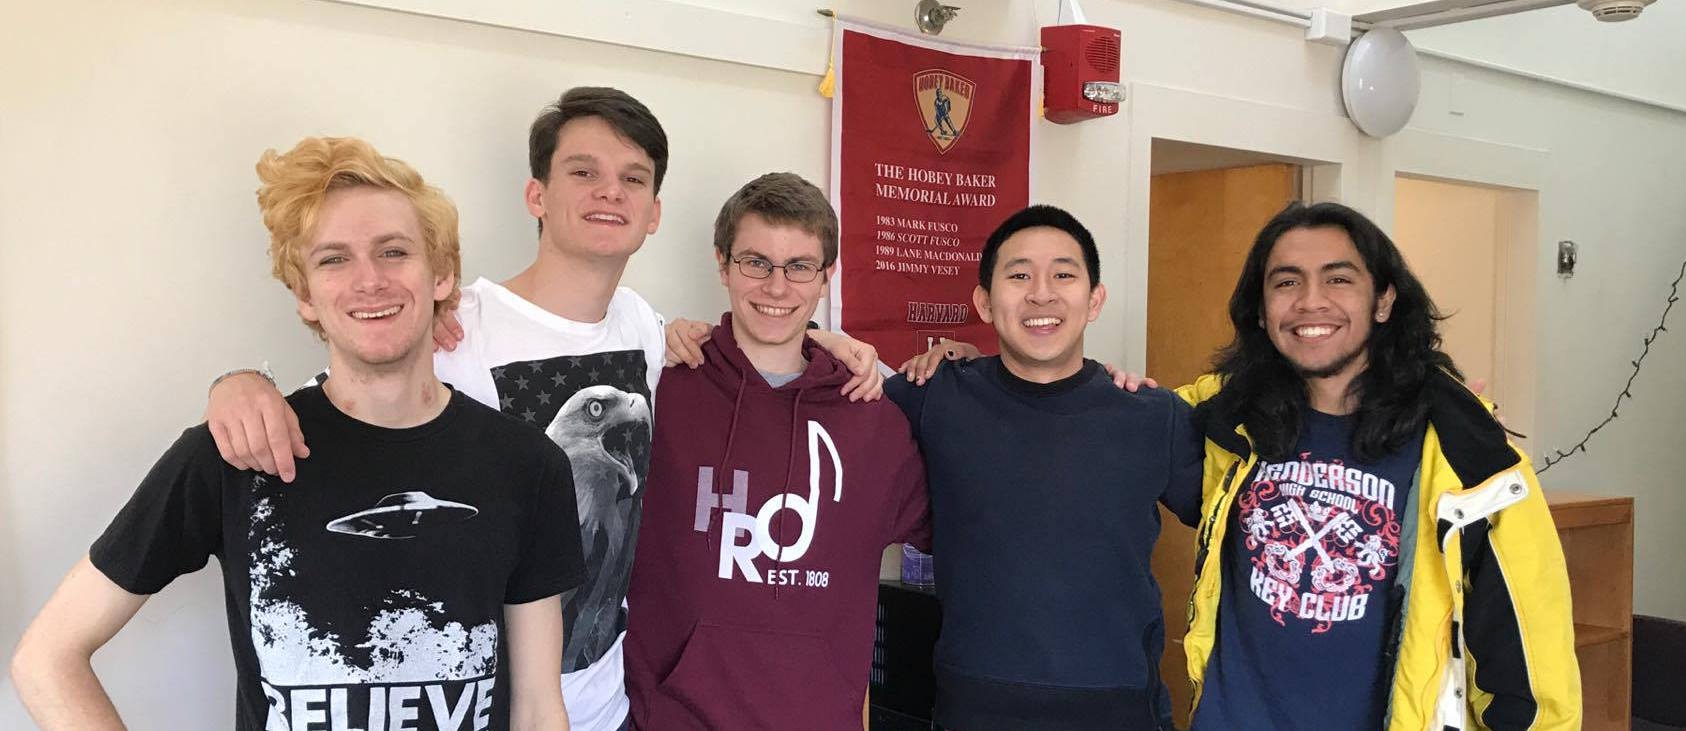
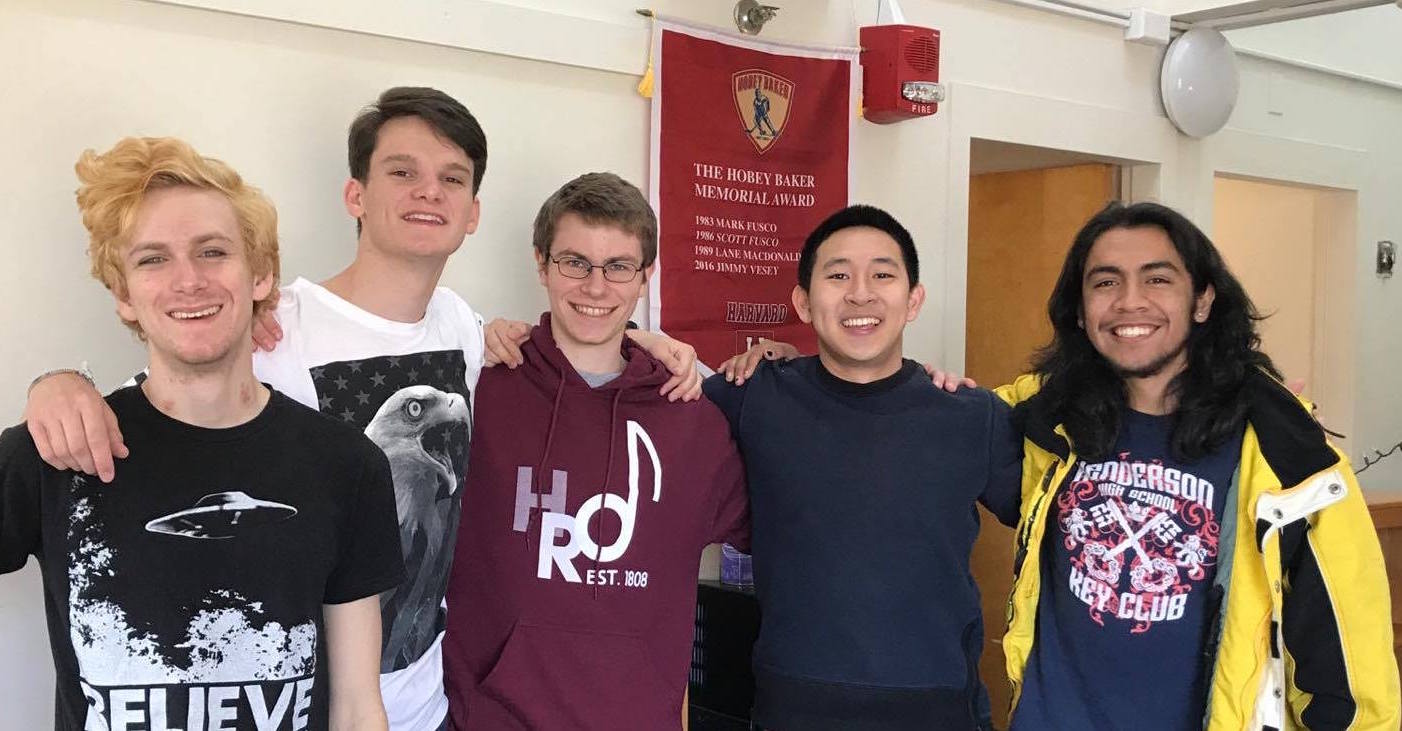
updated home pic

diff --git a/_site/index.html b/_site/index.html
@@ -38,16 +38,16 @@
 
 		<div class="header-image" style="position: relative">
         <div style="background: rgba(0,0,0,1); width: 100%">
-          <img style="width: 100%; vertical-align: top; opacity: 0.3" src="http://localhost:4000/images/home.jpg" alt="test">
+          <img style="width: 100%; vertical-align: top; opacity: 0.2" src="http://localhost:4000/images/home.jpg" alt="test">
         </div>
 
         <div class="hometext" style="color: white; position: absolute; top: 15%; left: 0px; width: 100%; text-align: center">
             <h1>Humans of Harvard</h1>
         </div>
 
-        <div class="hometext" style="color: white; position: absolute; top: 25%; right: 50%; height: 100%">
+        <div class="hometext" style="color: white; position: absolute; top: 25%; height: 100%; width: 100%">
 
-          <div style="position: fixed; top: 0; right: -50%">
+          <div style="position: absolute; left: 50%; transform: translate(-50%, 0px);">
               <ul style="padding-left: 0; white-space: nowrap">
                 <li style="display: inline-block"><a style="display: block; float: left; text-align: center; padding: 14px 16px; color: #ffffff; border-bottom: none" href="http://localhost:4000">Home</a></li>
                 <li style="display: inline-block"><a style="display: block; float: left; text-align: center; padding: 14px 16px; color: #ffffff; border-bottom: none" href="http://localhost:4000/about">About</a></li>
@@ -69,8 +69,7 @@
       <!-- Main -->
 				<div id="main">
 					<div class="inner">
-						<p style="margin-bottom: 15px"></p>
-						<div style="text-align: center"><h1>Humans of Harvard</h1></div>
+						<p style="margin-bottom: 30px"></p>
 						<section class="tiles">
 							
 							<article class="style6">
@@ -100,10 +99,9 @@
 							</article>
 							
 						</section>
+          </div>
+        </div>
 
-
-    </div>
-  </div>
 
 
       <!-- Footer -->
@@ -132,7 +130,6 @@
                 <li><a href="https://twitter.com/humansofharvard" class="icon style2 fa-twitter"><span class="label">Twitter</span></a></li>
                 <li><a href="https://www.facebook.com/thehumansofharvard/" class="icon style2 fa-facebook"><span class="label">Facebook</span></a></li>
                 <li><a href="https://www.instagram.com/thehumansofharvard" class="icon style2 fa-instagram"><span class="label">Instagram</span></a></li>
-                <li><a href="https://github.com/humansofharvard" class="icon style2 fa-github"><span class="label">GitHub</span></a></li>
                 <li><a href="mailto:thehumansofharvard@gmail.com" class="icon style2 fa-envelope-o"><span class="label">Email</span></a></li>
               </ul>
             </section>

diff --git a/index.html b/index.html
@@ -40,16 +40,16 @@ layout: homepage
 
 		<div class="header-image" style="position: relative">
         <div style="background: rgba(0,0,0,1); width: 100%">
-          <img style="width: 100%; vertical-align: top; opacity: 0.3" src="{{ site.url }}/images/home.jpg" alt="test">
+          <img style="width: 100%; vertical-align: top; opacity: 0.2" src="{{ site.url }}/images/home.jpg" alt="test">
         </div>
 
         <div class="hometext" style="color: white; position: absolute; top: 15%; left: 0px; width: 100%; text-align: center">
             <h1>Humans of Harvard</h1>
         </div>
 
-        <div class="hometext" style="color: white; position: absolute; top: 25%; right: 50%; height: 100%">
+        <div class="hometext" style="color: white; position: absolute; top: 25%; height: 100%; width: 100%">
 
-          <div style="position: fixed; top: 0; right: -50%">
+          <div style="position: absolute; left: 50%; transform: translate(-50%, 0px);">
               <ul style="padding-left: 0; white-space: nowrap">
                 <li style="display: inline-block"><a style="display: block; float: left; text-align: center; padding: 14px 16px; color: #ffffff; border-bottom: none" href="{{ site.url }}">Home</a></li>
                 <li style="display: inline-block"><a style="display: block; float: left; text-align: center; padding: 14px 16px; color: #ffffff; border-bottom: none" href="{{ site.url }}/about">About</a></li>
@@ -71,8 +71,7 @@ layout: homepage
       <!-- Main -->
 				<div id="main">
 					<div class="inner">
-						<p style="margin-bottom: 15px"></p>
-						<div style="text-align: center"><h1>Humans of Harvard</h1></div>
+						<p style="margin-bottom: 30px"></p>
 						<section class="tiles">
 							{% for post in site.posts %}
 							<article class="style6">
@@ -88,3 +87,5 @@ layout: homepage
 							</article>
 							{% endfor %}
 						</section>
+          </div>
+        </div>

diff --git a/_layouts/homepage.html b/_layouts/homepage.html
@@ -2,9 +2,6 @@
 
       {{ content }}
 
-    </div>
-  </div>
-
 
       <!-- Footer -->
         <footer id="footer">
@@ -32,7 +29,6 @@
                 <li><a href="https://twitter.com/humansofharvard" class="icon style2 fa-twitter"><span class="label">Twitter</span></a></li>
                 <li><a href="https://www.facebook.com/thehumansofharvard/" class="icon style2 fa-facebook"><span class="label">Facebook</span></a></li>
                 <li><a href="https://www.instagram.com/thehumansofharvard" class="icon style2 fa-instagram"><span class="label">Instagram</span></a></li>
-                <li><a href="https://github.com/humansofharvard" class="icon style2 fa-github"><span class="label">GitHub</span></a></li>
                 <li><a href="mailto:thehumansofharvard@gmail.com" class="icon style2 fa-envelope-o"><span class="label">Email</span></a></li>
               </ul>
             </section>

diff --git a/_layouts/default.html b/_layouts/default.html
@@ -104,7 +104,6 @@
                 <li><a href="https://twitter.com/humansofharvard" class="icon style2 fa-twitter"><span class="label">Twitter</span></a></li>
                 <li><a href="https://www.facebook.com/thehumansofharvard/" class="icon style2 fa-facebook"><span class="label">Facebook</span></a></li>
                 <li><a href="https://www.instagram.com/thehumansofharvard" class="icon style2 fa-instagram"><span class="label">Instagram</span></a></li>
-                <li><a href="https://github.com/humansofharvard" class="icon style2 fa-github"><span class="label">GitHub</span></a></li>
                 <li><a href="mailto:thehumansofharvard@gmail.com" class="icon style2 fa-envelope-o"><span class="label">Email</span></a></li>
               </ul>
             </section>

diff --git a/_site/404/index.html b/_site/404/index.html
@@ -115,7 +115,6 @@
                 <li><a href="https://twitter.com/humansofharvard" class="icon style2 fa-twitter"><span class="label">Twitter</span></a></li>
                 <li><a href="https://www.facebook.com/thehumansofharvard/" class="icon style2 fa-facebook"><span class="label">Facebook</span></a></li>
                 <li><a href="https://www.instagram.com/thehumansofharvard" class="icon style2 fa-instagram"><span class="label">Instagram</span></a></li>
-                <li><a href="https://github.com/humansofharvard" class="icon style2 fa-github"><span class="label">GitHub</span></a></li>
                 <li><a href="mailto:thehumansofharvard@gmail.com" class="icon style2 fa-envelope-o"><span class="label">Email</span></a></li>
               </ul>
             </section>

diff --git a/_site/Christine-Jou/index.html b/_site/Christine-Jou/index.html
@@ -115,7 +115,6 @@
                 <li><a href="https://twitter.com/humansofharvard" class="icon style2 fa-twitter"><span class="label">Twitter</span></a></li>
                 <li><a href="https://www.facebook.com/thehumansofharvard/" class="icon style2 fa-facebook"><span class="label">Facebook</span></a></li>
                 <li><a href="https://www.instagram.com/thehumansofharvard" class="icon style2 fa-instagram"><span class="label">Instagram</span></a></li>
-                <li><a href="https://github.com/humansofharvard" class="icon style2 fa-github"><span class="label">GitHub</span></a></li>
                 <li><a href="mailto:thehumansofharvard@gmail.com" class="icon style2 fa-envelope-o"><span class="label">Email</span></a></li>
               </ul>
             </section>

diff --git a/_site/Jeffrey-He/index.html b/_site/Jeffrey-He/index.html
@@ -115,7 +115,6 @@
                 <li><a href="https://twitter.com/humansofharvard" class="icon style2 fa-twitter"><span class="label">Twitter</span></a></li>
                 <li><a href="https://www.facebook.com/thehumansofharvard/" class="icon style2 fa-facebook"><span class="label">Facebook</span></a></li>
                 <li><a href="https://www.instagram.com/thehumansofharvard" class="icon style2 fa-instagram"><span class="label">Instagram</span></a></li>
-                <li><a href="https://github.com/humansofharvard" class="icon style2 fa-github"><span class="label">GitHub</span></a></li>
                 <li><a href="mailto:thehumansofharvard@gmail.com" class="icon style2 fa-envelope-o"><span class="label">Email</span></a></li>
               </ul>
             </section>

diff --git a/_site/about/index.html b/_site/about/index.html
@@ -165,7 +165,6 @@
                 <li><a href="https://twitter.com/humansofharvard" class="icon style2 fa-twitter"><span class="label">Twitter</span></a></li>
                 <li><a href="https://www.facebook.com/thehumansofharvard/" class="icon style2 fa-facebook"><span class="label">Facebook</span></a></li>
                 <li><a href="https://www.instagram.com/thehumansofharvard" class="icon style2 fa-instagram"><span class="label">Instagram</span></a></li>
-                <li><a href="https://github.com/humansofharvard" class="icon style2 fa-github"><span class="label">GitHub</span></a></li>
                 <li><a href="mailto:thehumansofharvard@gmail.com" class="icon style2 fa-envelope-o"><span class="label">Email</span></a></li>
               </ul>
             </section>

diff --git a/_site/stories/index.html b/_site/stories/index.html
@@ -134,7 +134,6 @@
                 <li><a href="https://twitter.com/humansofharvard" class="icon style2 fa-twitter"><span class="label">Twitter</span></a></li>
                 <li><a href="https://www.facebook.com/thehumansofharvard/" class="icon style2 fa-facebook"><span class="label">Facebook</span></a></li>
                 <li><a href="https://www.instagram.com/thehumansofharvard" class="icon style2 fa-instagram"><span class="label">Instagram</span></a></li>
-                <li><a href="https://github.com/humansofharvard" class="icon style2 fa-github"><span class="label">GitHub</span></a></li>
                 <li><a href="mailto:thehumansofharvard@gmail.com" class="icon style2 fa-envelope-o"><span class="label">Email</span></a></li>
               </ul>
             </section>

diff --git a/_site/submit/index.html b/_site/submit/index.html
@@ -208,7 +208,6 @@
                 <li><a href="https://twitter.com/humansofharvard" class="icon style2 fa-twitter"><span class="label">Twitter</span></a></li>
                 <li><a href="https://www.facebook.com/thehumansofharvard/" class="icon style2 fa-facebook"><span class="label">Facebook</span></a></li>
                 <li><a href="https://www.instagram.com/thehumansofharvard" class="icon style2 fa-instagram"><span class="label">Instagram</span></a></li>
-                <li><a href="https://github.com/humansofharvard" class="icon style2 fa-github"><span class="label">GitHub</span></a></li>
                 <li><a href="mailto:thehumansofharvard@gmail.com" class="icon style2 fa-envelope-o"><span class="label">Email</span></a></li>
               </ul>
             </section>
